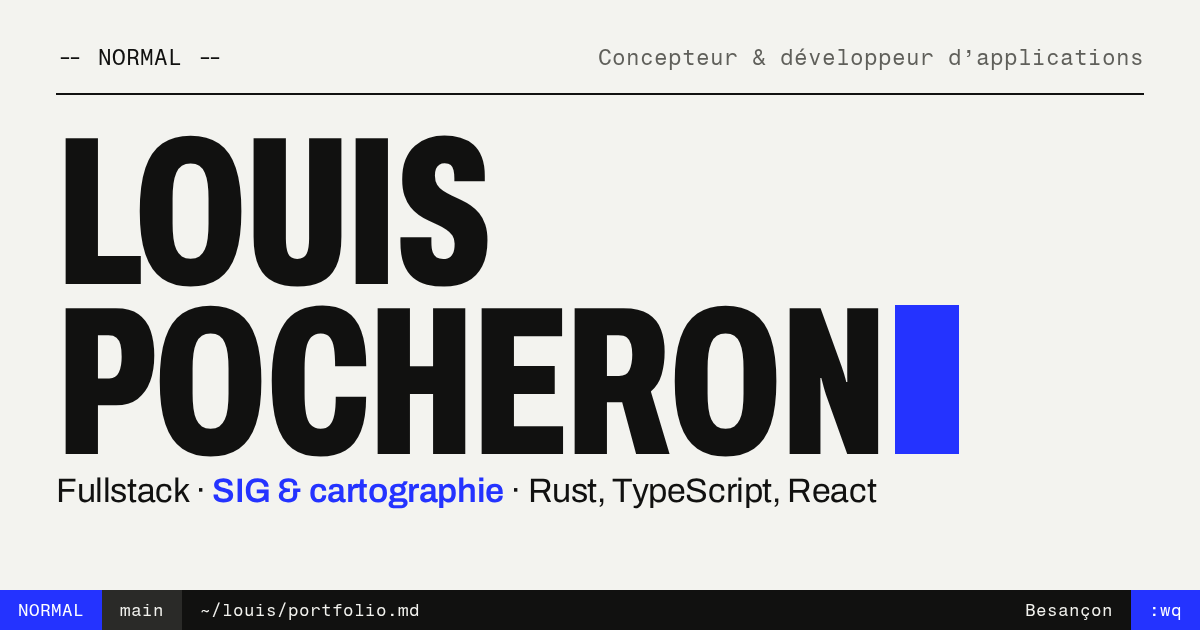
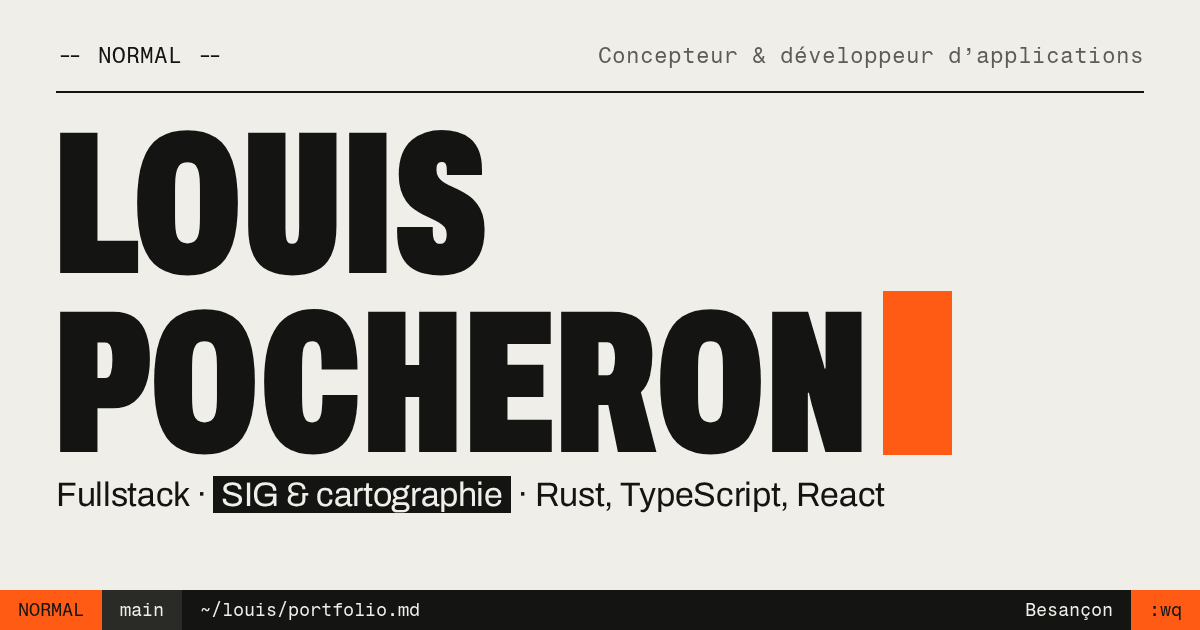
feat(theme): Open Graph image in the Encre seule palette, unused Archivo italic dropped

diff --git a/tests/e2e/fonts.spec.ts b/tests/e2e/fonts.spec.ts
@@ -1,6 +1,6 @@
 import { expect, test } from './fixtures';
 
-// Variable Archivo, its italic and Fragment Mono, subsets included (ADR 0002).
+// Variable Archivo and Fragment Mono, subsets included (ADR 0002).
 const FONT_BUDGET = 90 * 1024;
 
 test('the home page requests nothing outside the site, and its self-hosted fonts fit the budget', async ({

diff --git a/docs/adr/0002-polices-sous-ensembles.md b/docs/adr/0002-polices-sous-ensembles.md
@@ -29,3 +29,7 @@ Le fournisseur Google de l'API Fonts d'Astro sait restreindre les glyphes (`expe
 - Un caractère hors du jeu de glyphes s'affiche dans la police de repli : on l'ajoute à `GLYPHS` dans `scripts/fonts.sh` et on relance le script.
 - Archivo n'a pas ↗ : la flèche des liens en Archivo vient de la police de repli, comme dans la maquette ; en Fragment Mono, elle est dessinée.
 - Aucune des deux polices n'a ★ (étoiles GitHub de la liste des projets) : il vient toujours du repli, l'ajouter au jeu de glyphes n'y changerait rien.
+
+## Mise à jour (2026-11-03)
+
+L'accroche retapée en Vim n'a plus de mot en italique : `archivo-italic-400.woff2` est retiré de la config, du script et du dépôt. Restent deux fichiers, 73 Ko.

diff --git a/docs/adr/0006-charte-encre-seule.md b/docs/adr/0006-charte-encre-seule.md
@@ -18,4 +18,4 @@ La charte de la maquette D (encre sur papier, accent bleu `#2433ff` en aplat et 
 
 - Le compteur de l'Intro reste à 800 : il est en Fragment Mono, qui n'a qu'une graisse (gras synthétique, identique à 800 et 900).
 - Le bouton au survol devient papier, contour encre et ombre portée signal, dessinés en `box-shadow` pour que sa boîte ne bouge pas.
-- L'image Open Graph (`src/assets/og.png`) porte encore l'ancienne charte : à refaire à part.
+- L'image Open Graph (`src/assets/og.png`) reprend sa composition aux nouvelles couleurs, titre en 900 ; « SIG & cartographie » y passe en encre/papier comme la sélection de l'accroche.
